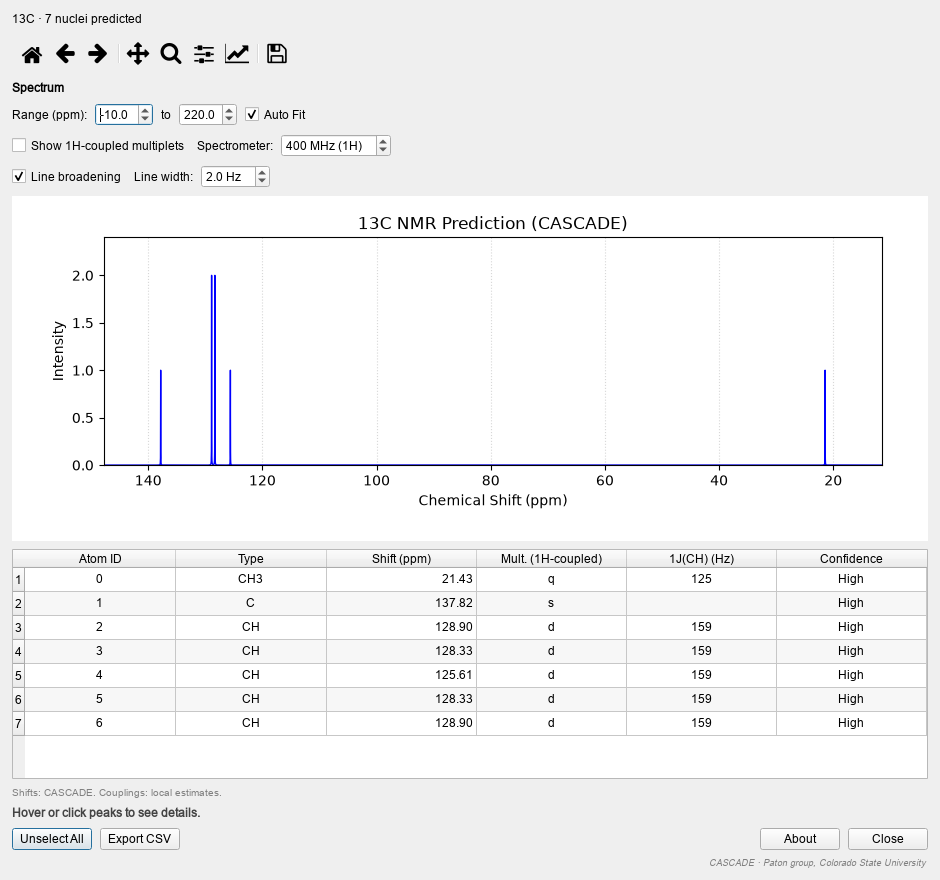
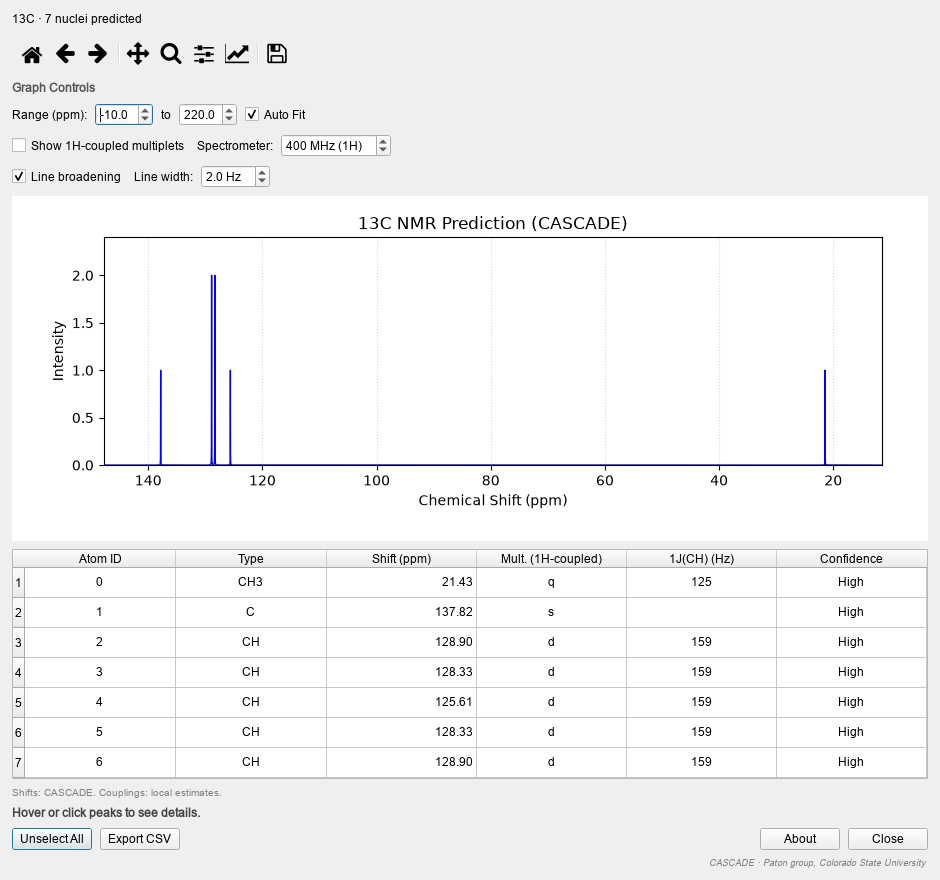
Keep presentation changes scoped and preserve existing table styling
Assisted-by: GPT-6.1 Sol

diff --git a/nmr_predictor_cascade/result_dialog.py b/nmr_predictor_cascade/result_dialog.py
@@ -105,9 +105,6 @@ class ResultDialog(QDialog):
         layout.setContentsMargins(12, 12, 12, 12)
         layout.setSpacing(8)
         summary = f"{self.nucleus} · {len(self.data)} nuclei predicted"
-        n_conformers = result_data.get("n_conformers")
-        if n_conformers:
-            summary += f" · {n_conformers} conformer(s)"
         summary_label = QLabel(summary)
         summary_label.setWordWrap(True)
         layout.addWidget(summary_label)
@@ -118,8 +115,8 @@ class ResultDialog(QDialog):
         self.canvas.setMinimumHeight(240)
         self.toolbar = NavigationToolbar2QT(self.canvas, self)
 
-        title = QLabel("Spectrum")
-        title.setStyleSheet("font-weight: bold;")
+        title = QLabel("Graph Controls")
+        title.setStyleSheet("font-weight: bold; color: #555;")
 
         range_row = QHBoxLayout()
         range_row.addWidget(QLabel("Range (ppm):"))
@@ -183,12 +180,10 @@ class ResultDialog(QDialog):
         self.table.horizontalHeader().setSectionResizeMode(QHeaderView.ResizeMode.Stretch)
         self.table.setSelectionBehavior(QTableWidget.SelectionBehavior.SelectRows)
         self.table.setEditTriggers(QTableWidget.EditTrigger.NoEditTriggers)
-        self.table.setAlternatingRowColors(True)
-        self.table.verticalHeader().setDefaultSectionSize(24)
-        self.table.setMinimumHeight(150)
-        self.table.setToolTip(
-            "Confidence is reported by CASCADE; it is not a numerical error bound."
+        self.table.setStyleSheet(
+            "QTableWidget::item:selected { background-color: pink; color: black; }"
         )
+        self.table.setMinimumHeight(150)
         self.table.setRowCount(len(self.data))
         for row, item in enumerate(self.data):
             for col, text in enumerate(row_values(item, self.nucleus)):

diff --git a/README.md b/README.md
@@ -56,10 +56,6 @@ that predicts **1H** and **13C** NMR chemical shifts with
 
 The choices are remembered in `settings.json` next to the plugin.
 
-Version 2.0.3 gives the result dialog more room for table columns, alternating
-row shading and a compact result summary. The coupling explanation is available
-in a tooltip and About; the footer identifies CASCADE and its authors.
-
 ![13C result for toluene](img/13c.png)
 
 *Toluene, 13C: carbon types and 1J(CH) next to the CASCADE shifts.*
@@ -95,7 +91,7 @@ step.
 
 ## Requirements
 
-* MoleditPy 5.x (provides PySide6, RDKit, PyVista)
+* MoleditPy 4.x (provides PySide6, RDKit, PyVista)
 * `matplotlib`
 * Internet access to `nova.chem.colostate.edu`
 
